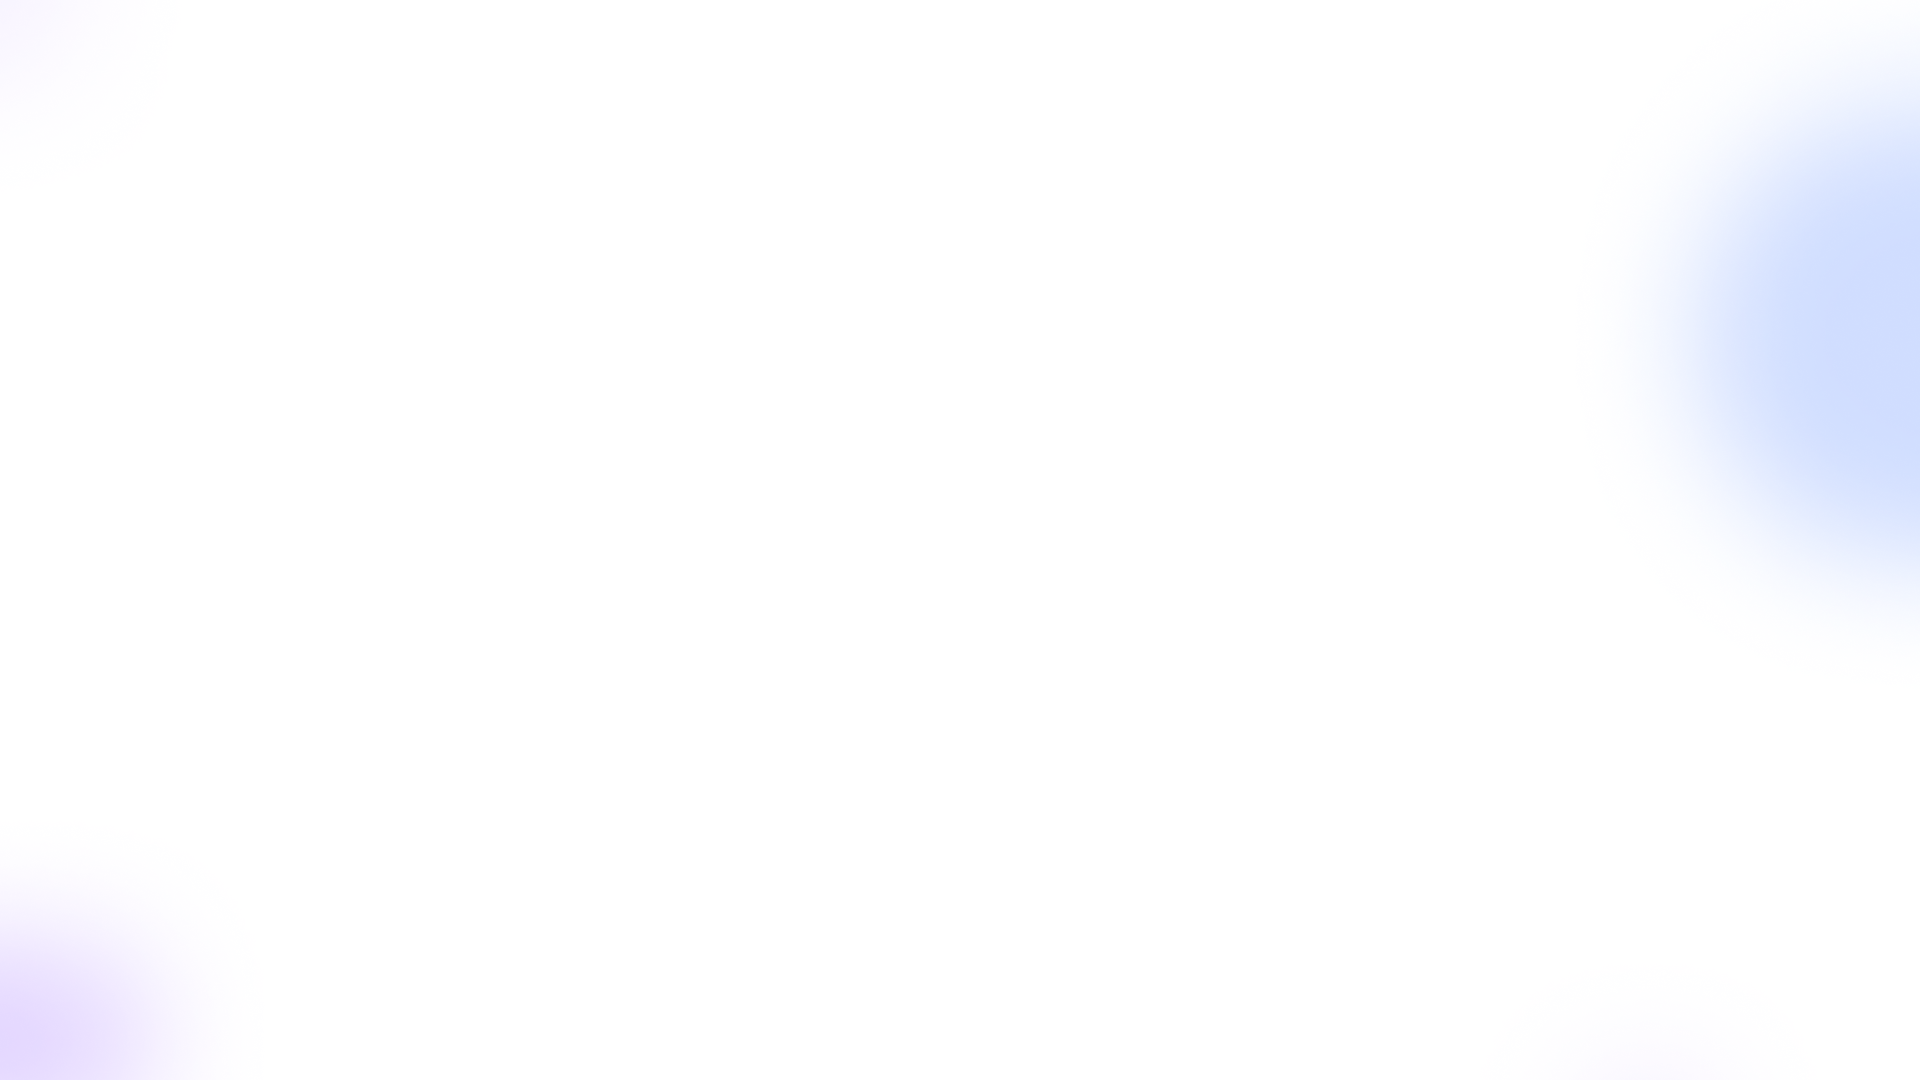
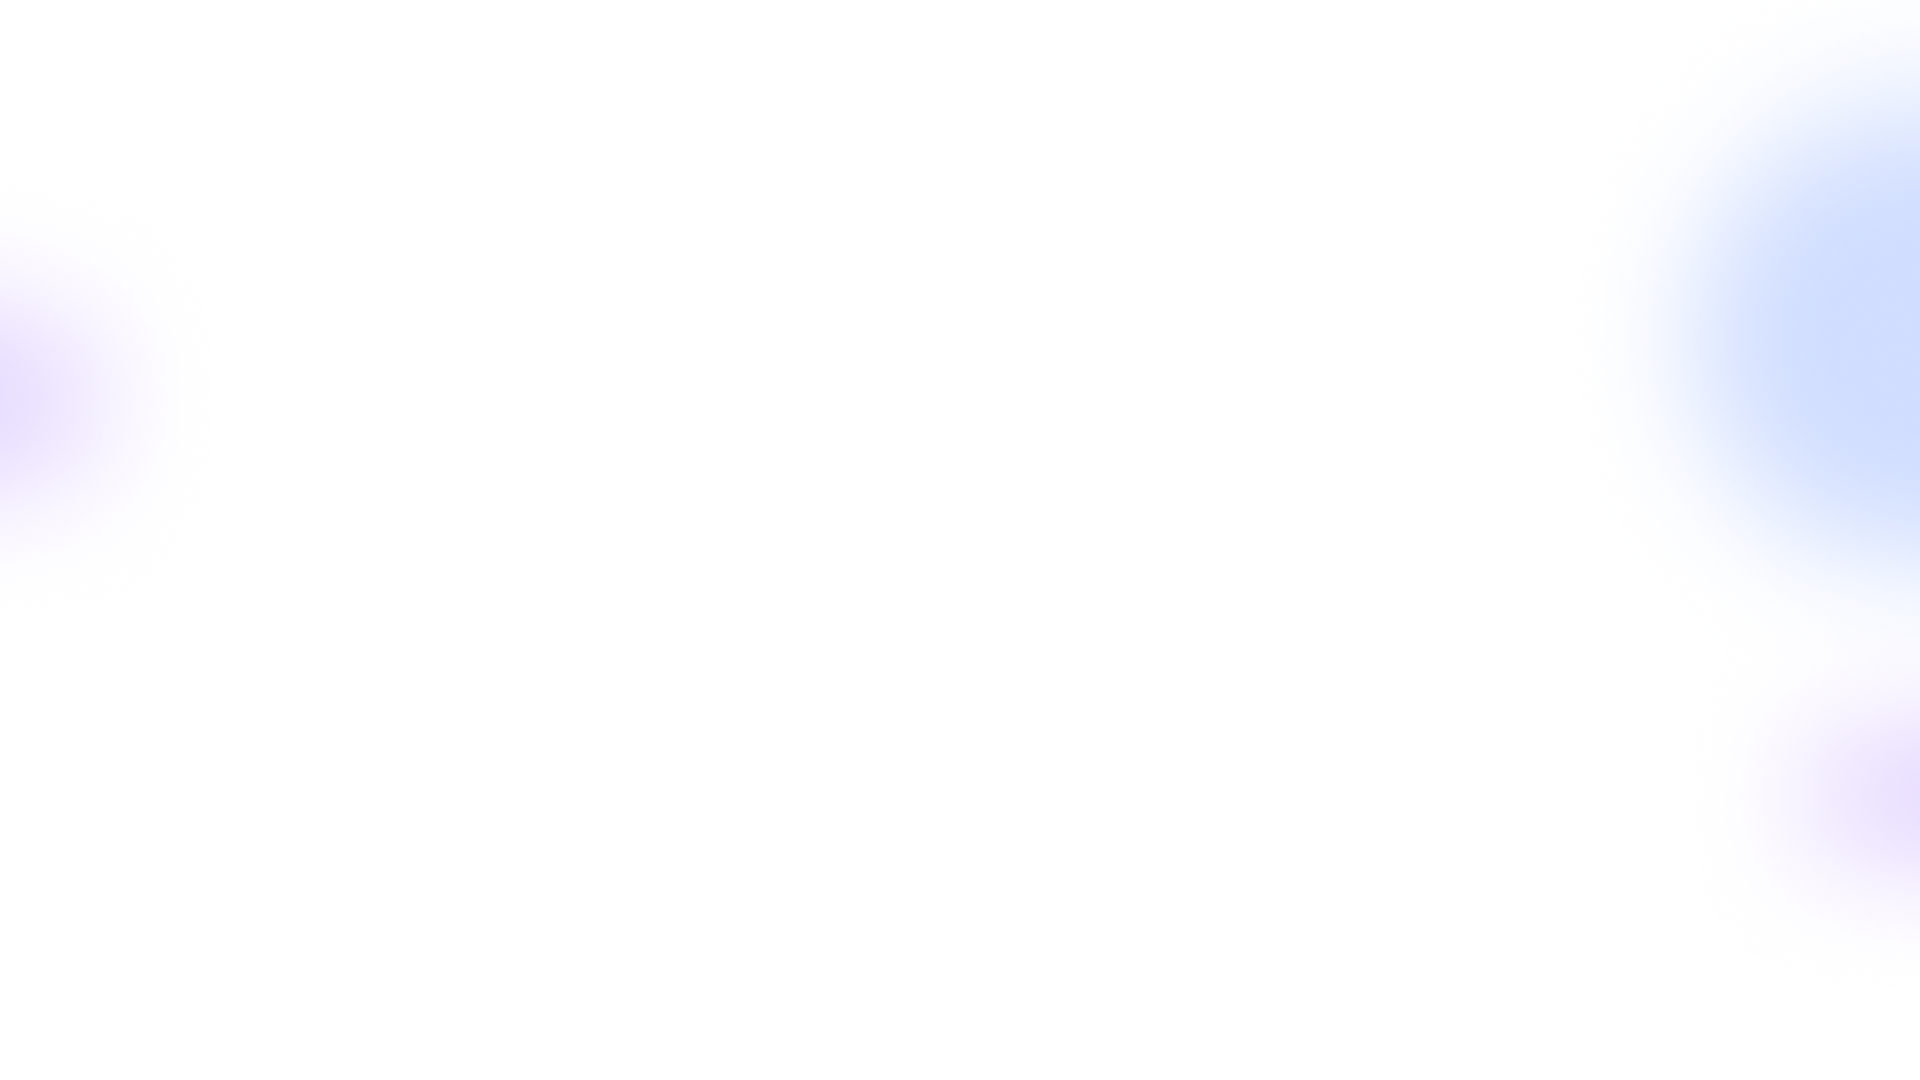
Update background image and styles

Changed region(s): [[0.0, 0.8861, 0.0625, 1.0], [0.9688, 0.6722, 1.0, 0.7944], [0.0, 0.3056, 0.0312, 0.4278]]

diff --git a/public/css/style.css b/public/css/style.css
@@ -296,7 +296,11 @@ html {
 
 body {
     height: 970px;
-    background-image:  url(../images/bg.png);;
+    background-image: url(../images/bg.png);
+    -moz-background-size: 100%; /* Firefox 3.6+ */
+    -webkit-background-size: 100%; /* Safari 3.1+ и Chrome 4.0+ */
+    -o-background-size: 100%; /* Opera 9.6+ */
+    background-size: 100%; /* Современные браузеры */
     font-family: Montserrat;
     font-style: normal;
     font-weight: normal;
@@ -357,10 +361,29 @@ body {
 /* header style end */
 
 /* about style start */
+.home {
+    font-family: Montserrat;
+    font-style: normal;
+    font-weight: normal;
+    font-size: 64px;
+}
+/* about style end */
+
+/* about style start */
 .about {
     font-family: Montserrat;
     font-style: normal;
     font-weight: normal;
     font-size: 64px;
+}
+/* about style end */
+
+/* about style start */
+.about__content {
+    font-family: Montserrat;
+    font-style: normal;
+    font-weight: normal;
+    line-height: 1.5;
+    font-size: 32px;
 }
 /* about style end */
